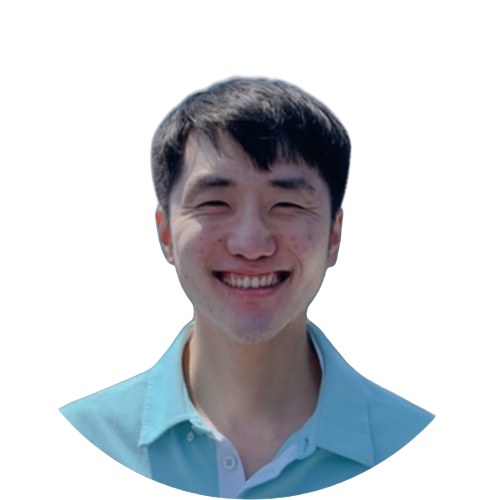
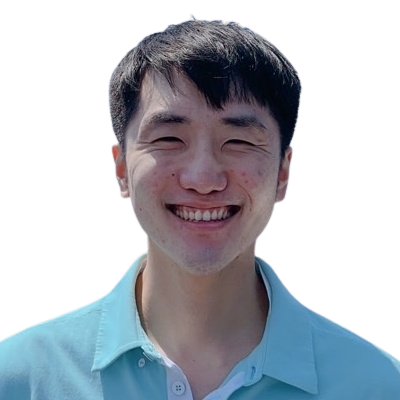
CSS-home

diff --git a/css/style.css b/css/style.css
@@ -1,3 +1,5 @@
+@import url('header.css');
+@import url('home.css');
 /* Global */
 :root {
   /* App Colors */
@@ -41,46 +43,8 @@ a {
   color: var(--color-text);
 }
 
-/* Header */
-.header {
-  background-color: #050a13;
-  position: fixed;
-  top: 0;
-  width: 100%;
-  padding: 1rem;
-  display: flex;
-  justify-content: space-between;
-  align-items: center;
-}
+/* HEADER*/
+/* header.css */
 
-.header__logo {
-  display: flex;
-  align-items: center;
-  gap: 8px;
-}
-
-.header__logo__img {
-  width: 36px;
-  height: 36px;
-}
-
-.header__logo__title {
-  font-size: 1.8rem;
-}
-
-.header__menu {
-  display: flex;
-  gap: 4px;
-}
-
-.header__menu__item {
-  padding: 8px 16px;
-}
-
-.header__menu__item:hover {
-  border-bottom: 1px solid var(--color-accent);
-}
-.header__menu__item.active {
-  border: 1px solid var(--color-accent);
-  border-radius: 4px;
-}
+/* MAIN */
+/* home.css */

diff --git a/css/home.css b/css/home.css
@@ -1,0 +1,44 @@
+/* Home */
+#home {
+  background-color: var(--color-primary);
+  color: var(--color-text);
+  padding: 5rem 1rem;
+  padding-top: 7rem;
+  text-align: center;
+}
+.home__avatar {
+  width: 250px;
+  height: 250px;
+  object-fit: cover;
+  border-radius: 100%;
+  border: 3px solid var(--color-accent);
+}
+
+.home__title {
+  font-size: 3rem;
+  margin-bottom: 1rem;
+}
+
+.home__title--strong {
+  color: var(--color-accent);
+}
+
+.home__description {
+  font-size: 1.3rem;
+}
+
+.home__contact {
+  display: inline-block;
+  background-color: var(--color-accent);
+  color: var(--color-primary);
+  margin: 2rem;
+  padding: 0.5rem 1rem;
+  font-weight: bold;
+  border-radius: 4px;
+}
+
+.home__contact:hover {
+  background-color: transparent;
+  color: var(--color-text);
+  outline: 2px solid var(--color-accent);
+}

diff --git a/css/header.css b/css/header.css
@@ -1,0 +1,43 @@
+/* Header */
+.header {
+  background-color: #050a13;
+  position: fixed;
+  top: 0;
+  width: 100%;
+  padding: 1rem;
+  display: flex;
+  justify-content: space-between;
+  align-items: center;
+}
+
+.header__logo {
+  display: flex;
+  align-items: center;
+  gap: 8px;
+}
+
+.header__logo__img {
+  width: 36px;
+  height: 36px;
+}
+
+.header__logo__title {
+  font-size: 1.8rem;
+}
+
+.header__menu {
+  display: flex;
+  gap: 4px;
+}
+
+.header__menu__item {
+  padding: 8px 16px;
+}
+
+.header__menu__item:hover {
+  border-bottom: 1px solid var(--color-accent);
+}
+.header__menu__item.active {
+  border: 1px solid var(--color-accent);
+  border-radius: 4px;
+}

diff --git a/index.html b/index.html
@@ -51,10 +51,10 @@
   <main>
     <!-- Home -->
     <section id="home">
-      <img src="./img/profile-noBG.png" alt="Ted's profile">
-      <h2>Hello I&#39;m Ted</h2>
-      <p>A Website Developer currently residing in Busan, Korea</p>
-      <a href="#contact">Contact Me</a>
+      <img class="home__avatar" src="./img/profile-noBG.png" alt="Ted's profile">
+      <h2 class="home__title">Hello<br> I&#39;m <strong class="home__title--strong">Ted</strong></h2>
+      <p class="home__description">A Website Developer currently residing in Busan, Korea</p>
+      <a class="home__contact" href="#contact">Contact Me</a>
     </section>
     <!-- About -->
     <section id="about">
